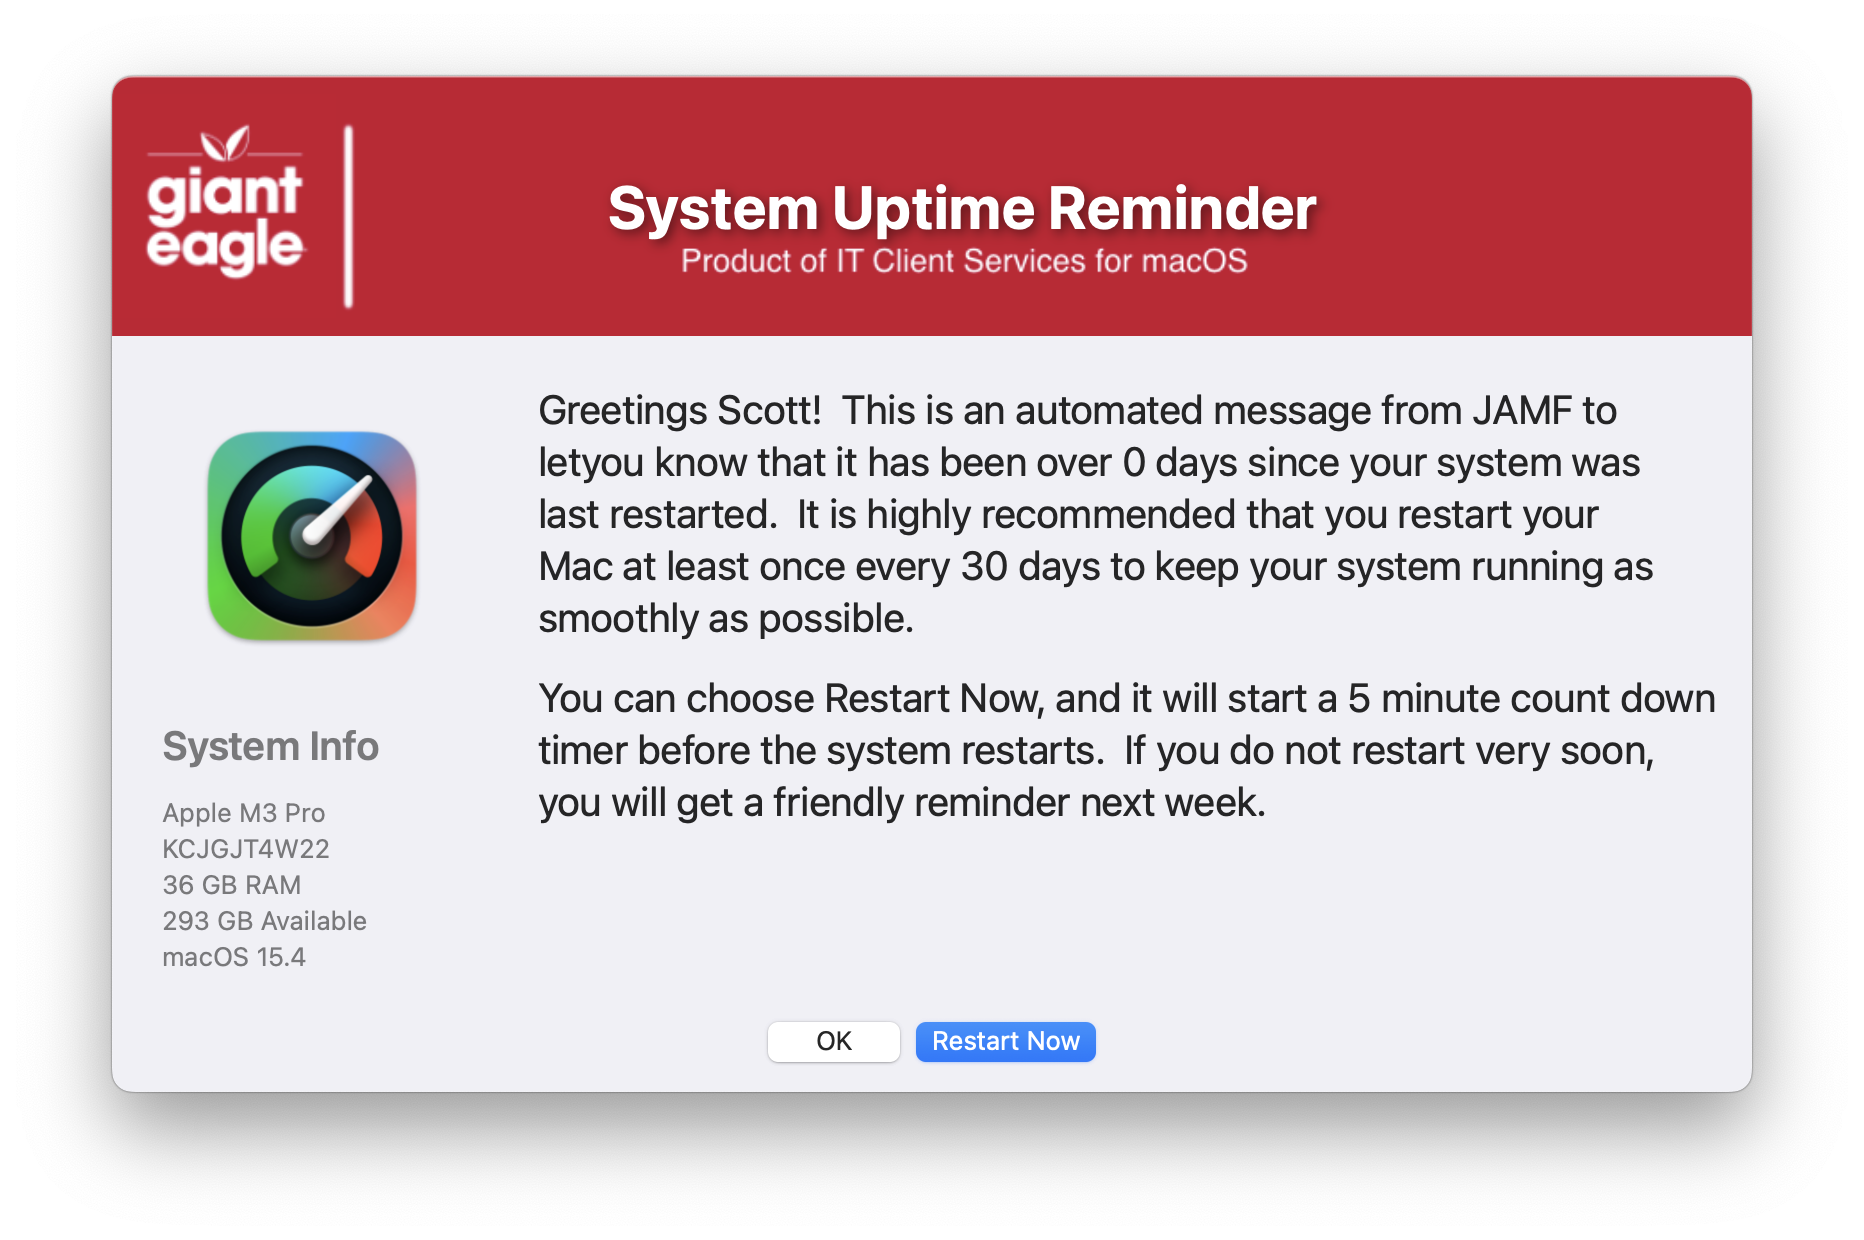
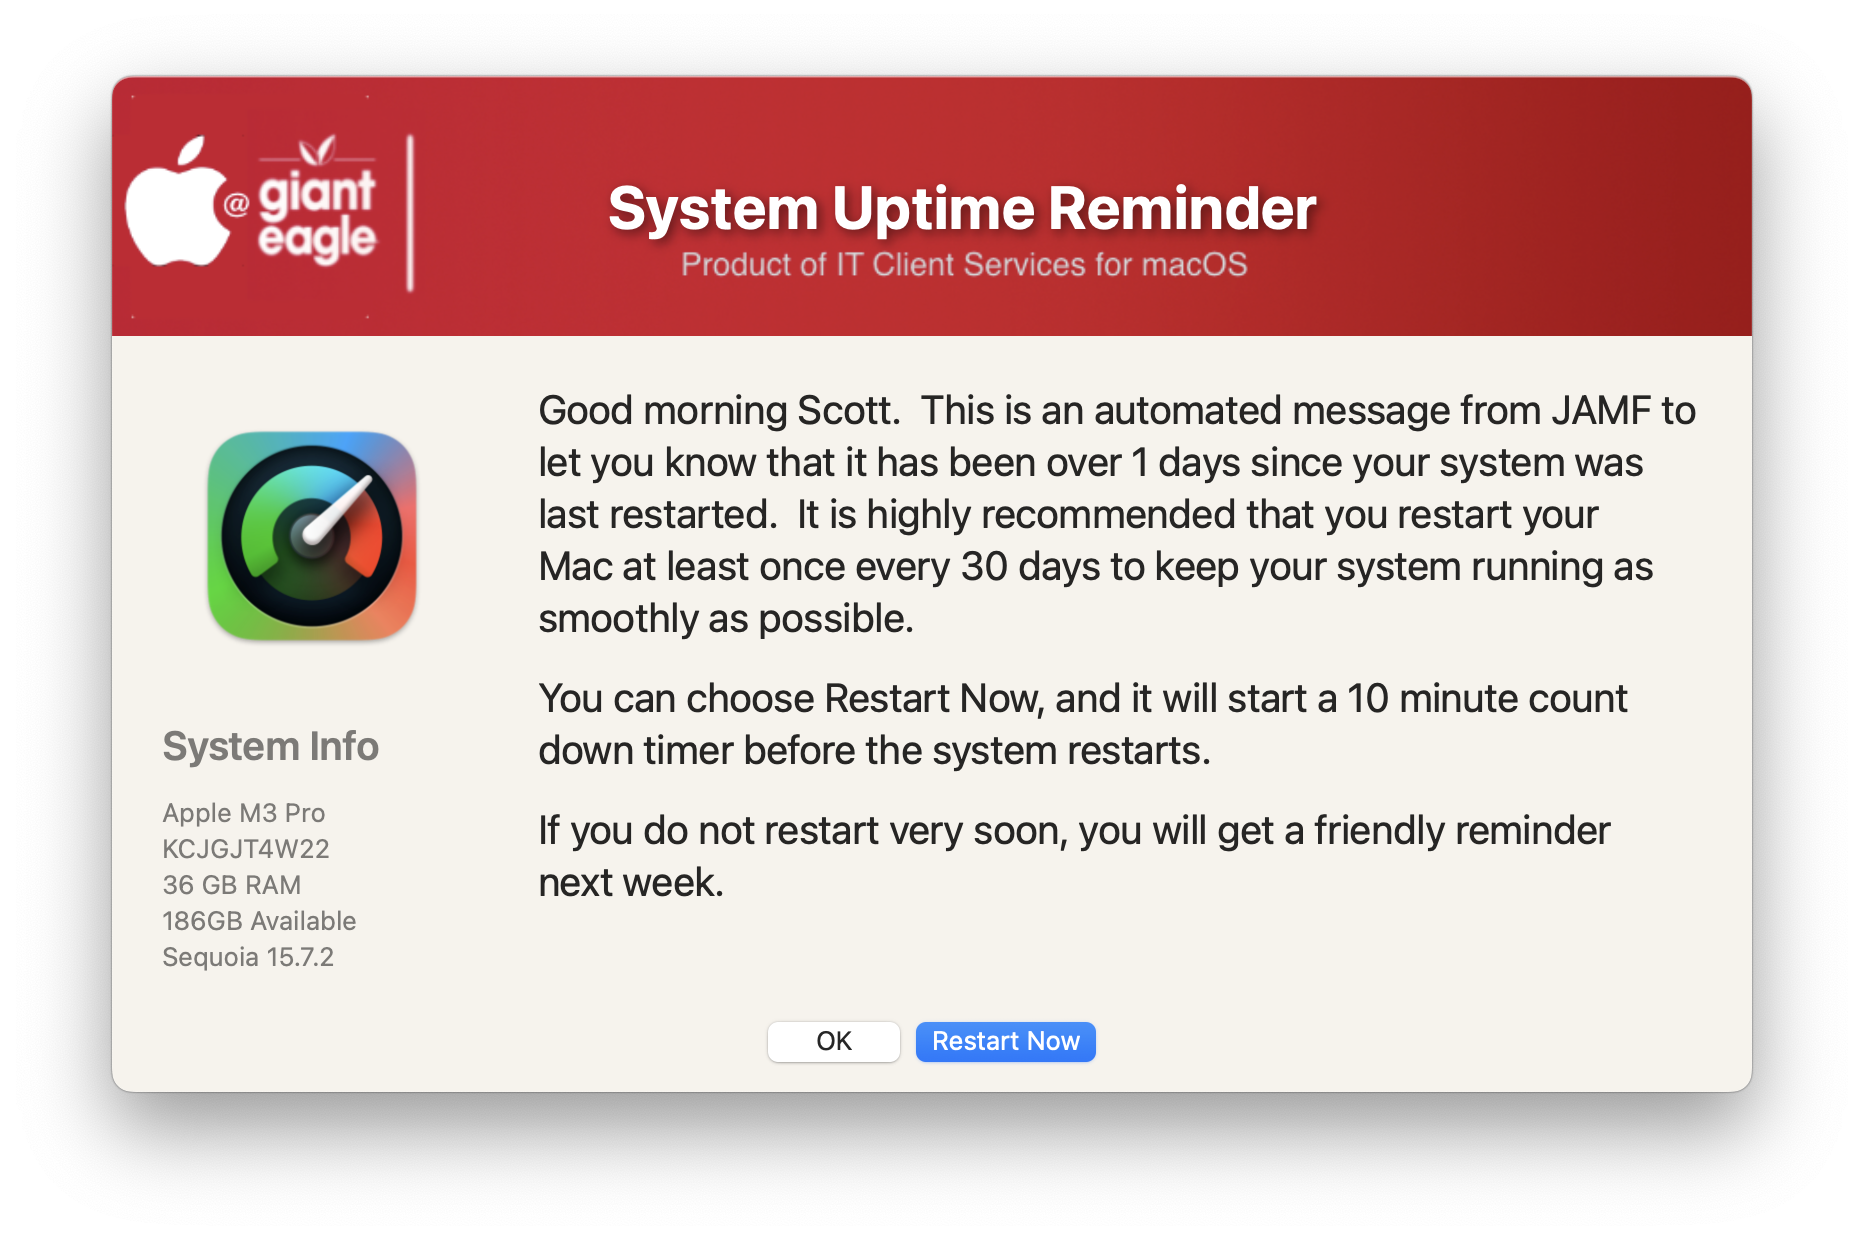
Show System uptime with option to restart

diff --git a/UpTime/README.md b/UpTime/README.md
@@ -2,11 +2,13 @@
 
 GUI Notification of a request for a user to restart if over X days have passed.  Both the days & timers can be adjust via script variables (or passed in from a JAMF script)
 
-![](/UpTime/Uptime.png)
+![](./Uptime.png)
+
+![](./Uptime-Timer.png)
 
 An example of the smartgroup that can be setup for systems with an uptime over 30 days
 
-![](/UpTime/Uptime_SmartGroup.png)
+![](./Uptime_SmartGroup.png)
 
 and the Extended Attribute that creates the 'Uptime Status' field of each computer
 
@@ -22,9 +24,16 @@ uptimeOutput=$(uptime)
 echo "<result>${uptimeDays:-0}</result>"
 ```
 
-##### 1.0 - Initial Commit
-##### 1.1 - Added more logging details
-##### 1.2 - Added shutdown -r now command in case the applescript method fails
-##### 1.3 - Add logic to not display restart option if already on day 0...this addresses an issue in JAMF that this policy might be run before inventory gets accurate info
-##### 1.4 - Remove the MAC_HADWARE_CLASS item as it was misspelled and not used anymore...
-##### 1.5 - Add additional logging / set the default JAMF_LOGGED_IN_USER to current logged in user if not called from JAMF / Put in logic to install the icon if it doesn't already existing in specified location / Bumped min version of Swift Dialog to v2.5.0
+#### 1.0 - Initial Commit
+#### 1.1 - Added more logging details
+#### 1.2 - Added shutdown -r now command in case the applescript method fails
+#### 1.3 - Add logic to not display restart option if already on day 0...this addresses an issue in JAMF that this policy might be run before inventory gets accurate info
+#### 1.4 - Remove the MAC_HADWARE_CLASS item as it was misspelled and not used anymore...
+#### 1.5 - Add additional logging
+####       set the default JAMF_LOGGED_IN_USER to current logged in user if not called from JAMF
+####       Put in logic to install the icon if it doesn't already existing in specified location
+####       Bumped min version of Swift Dialog to v2.5.0
+#### 1.6 - Code cleanup
+####       Added feature to read in defaults file
+####       removed unnecessary variables.
+####       Fixed typos
